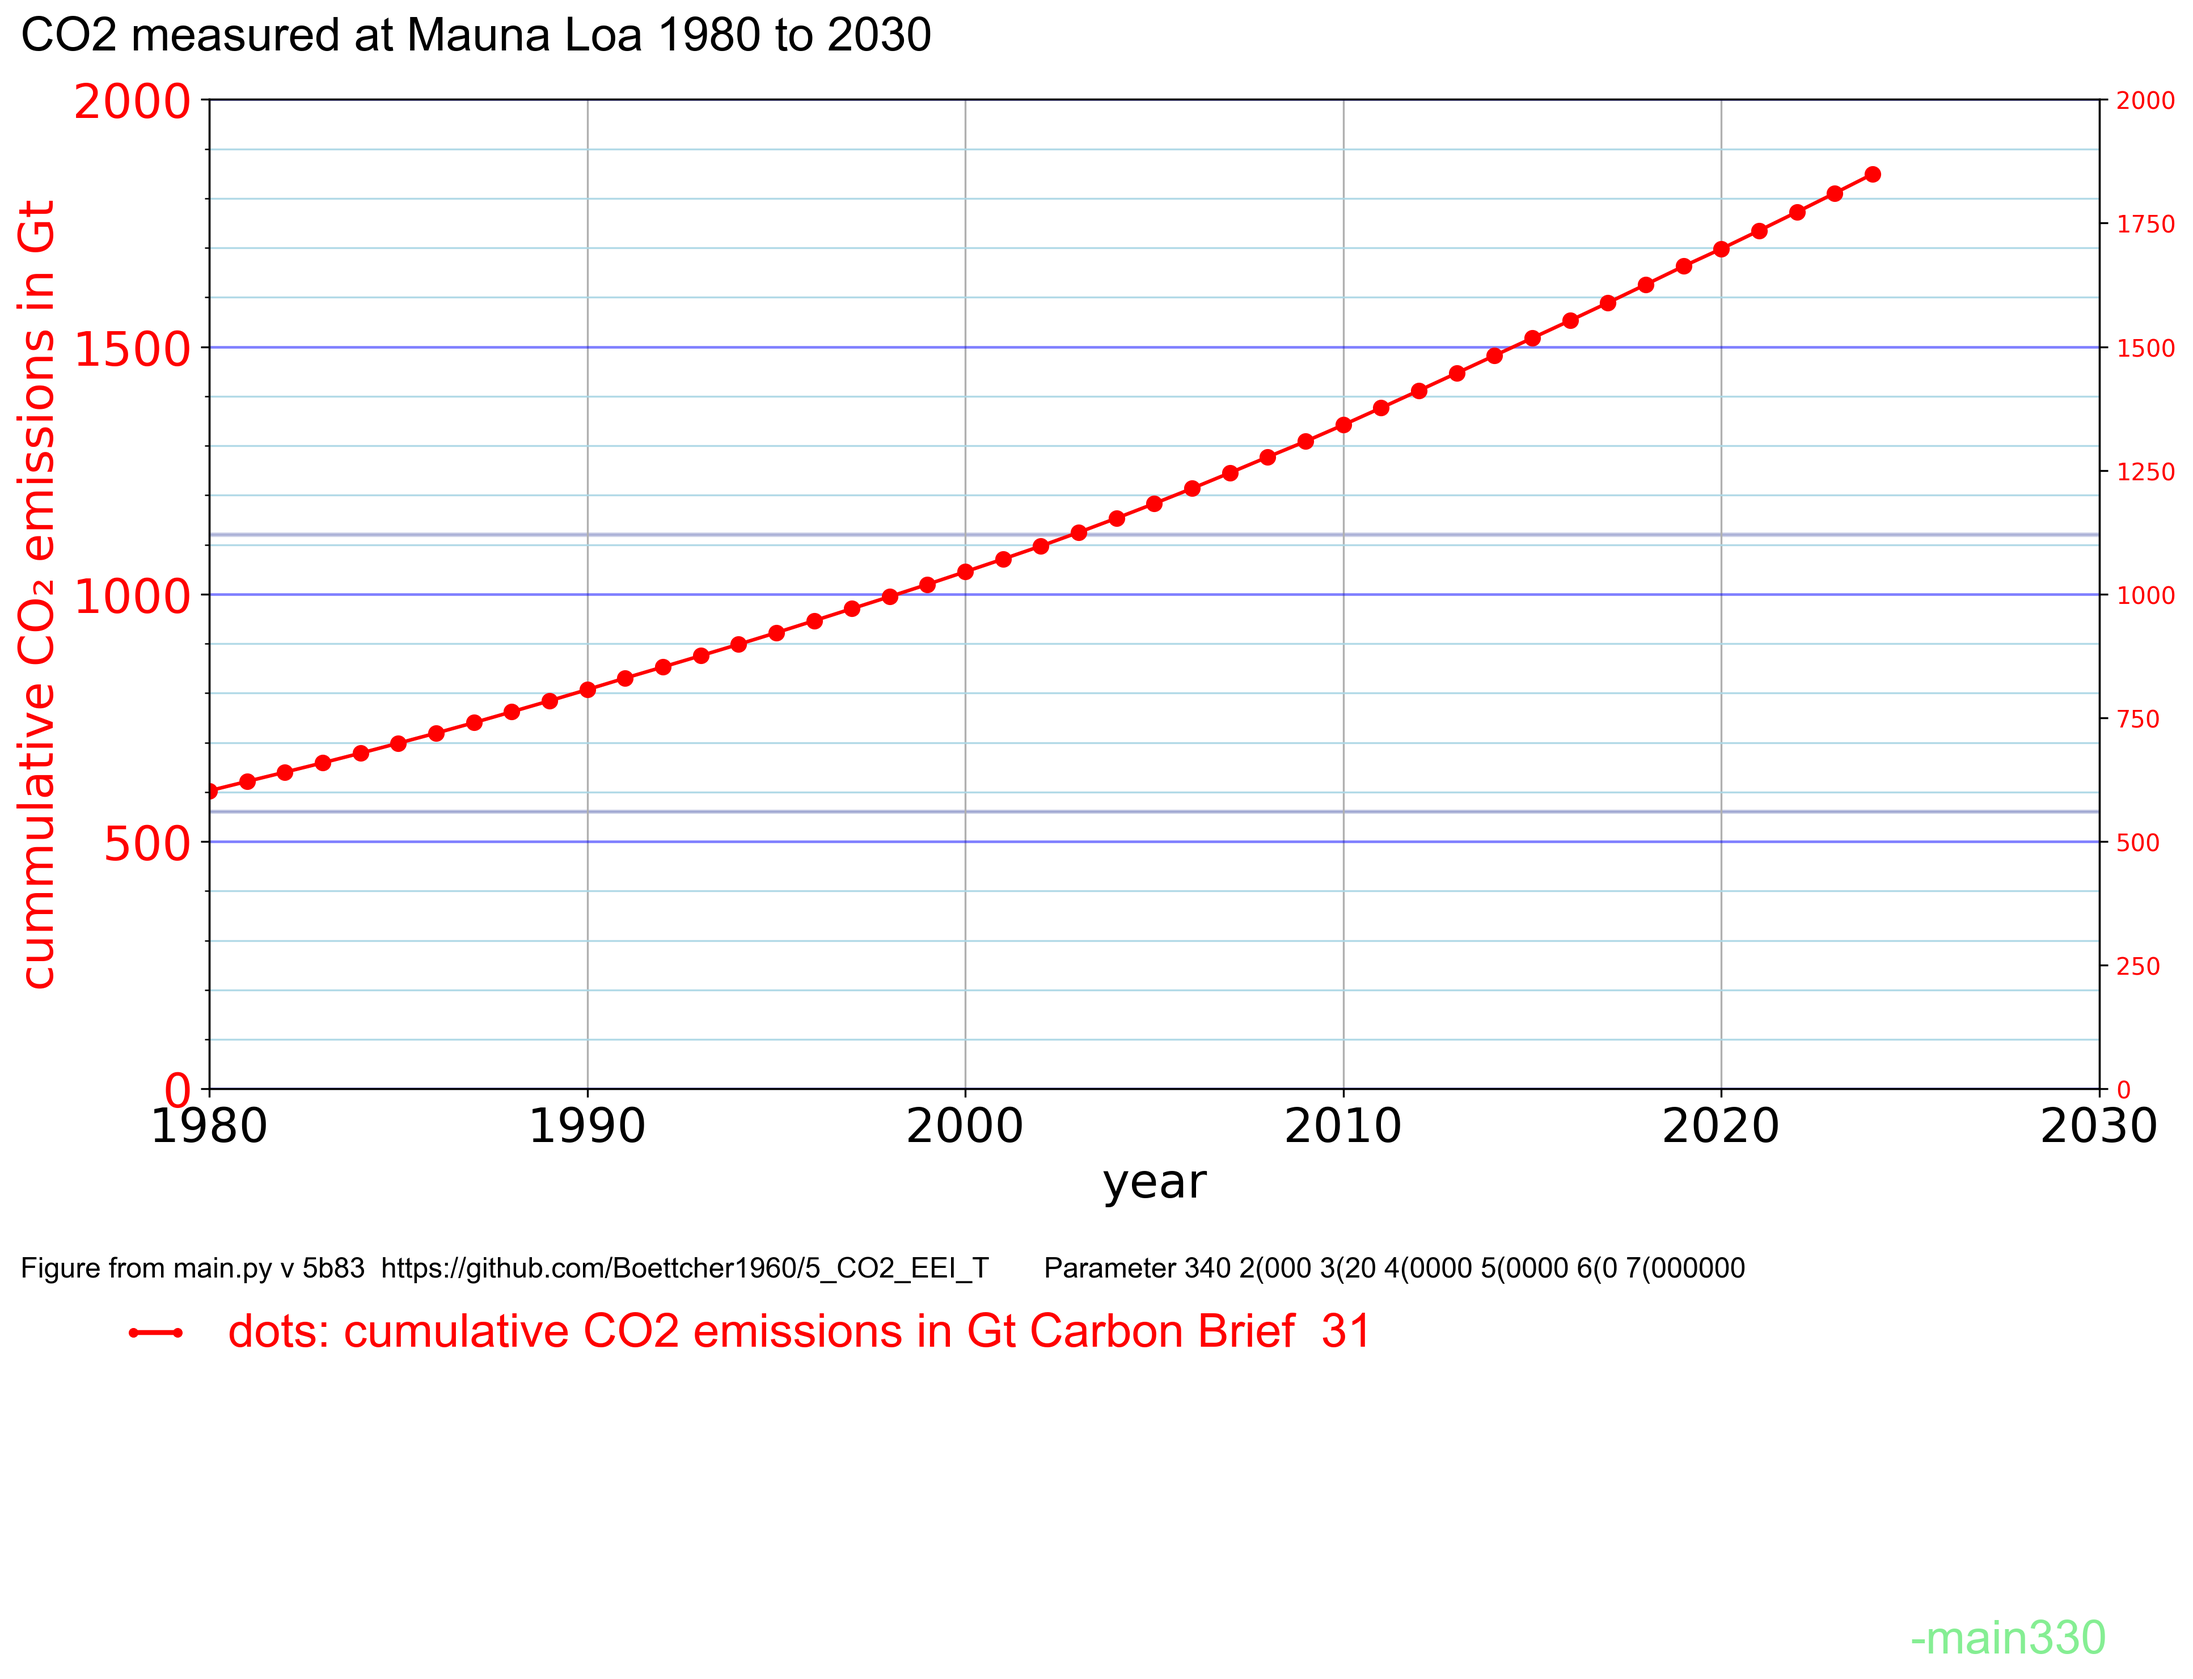
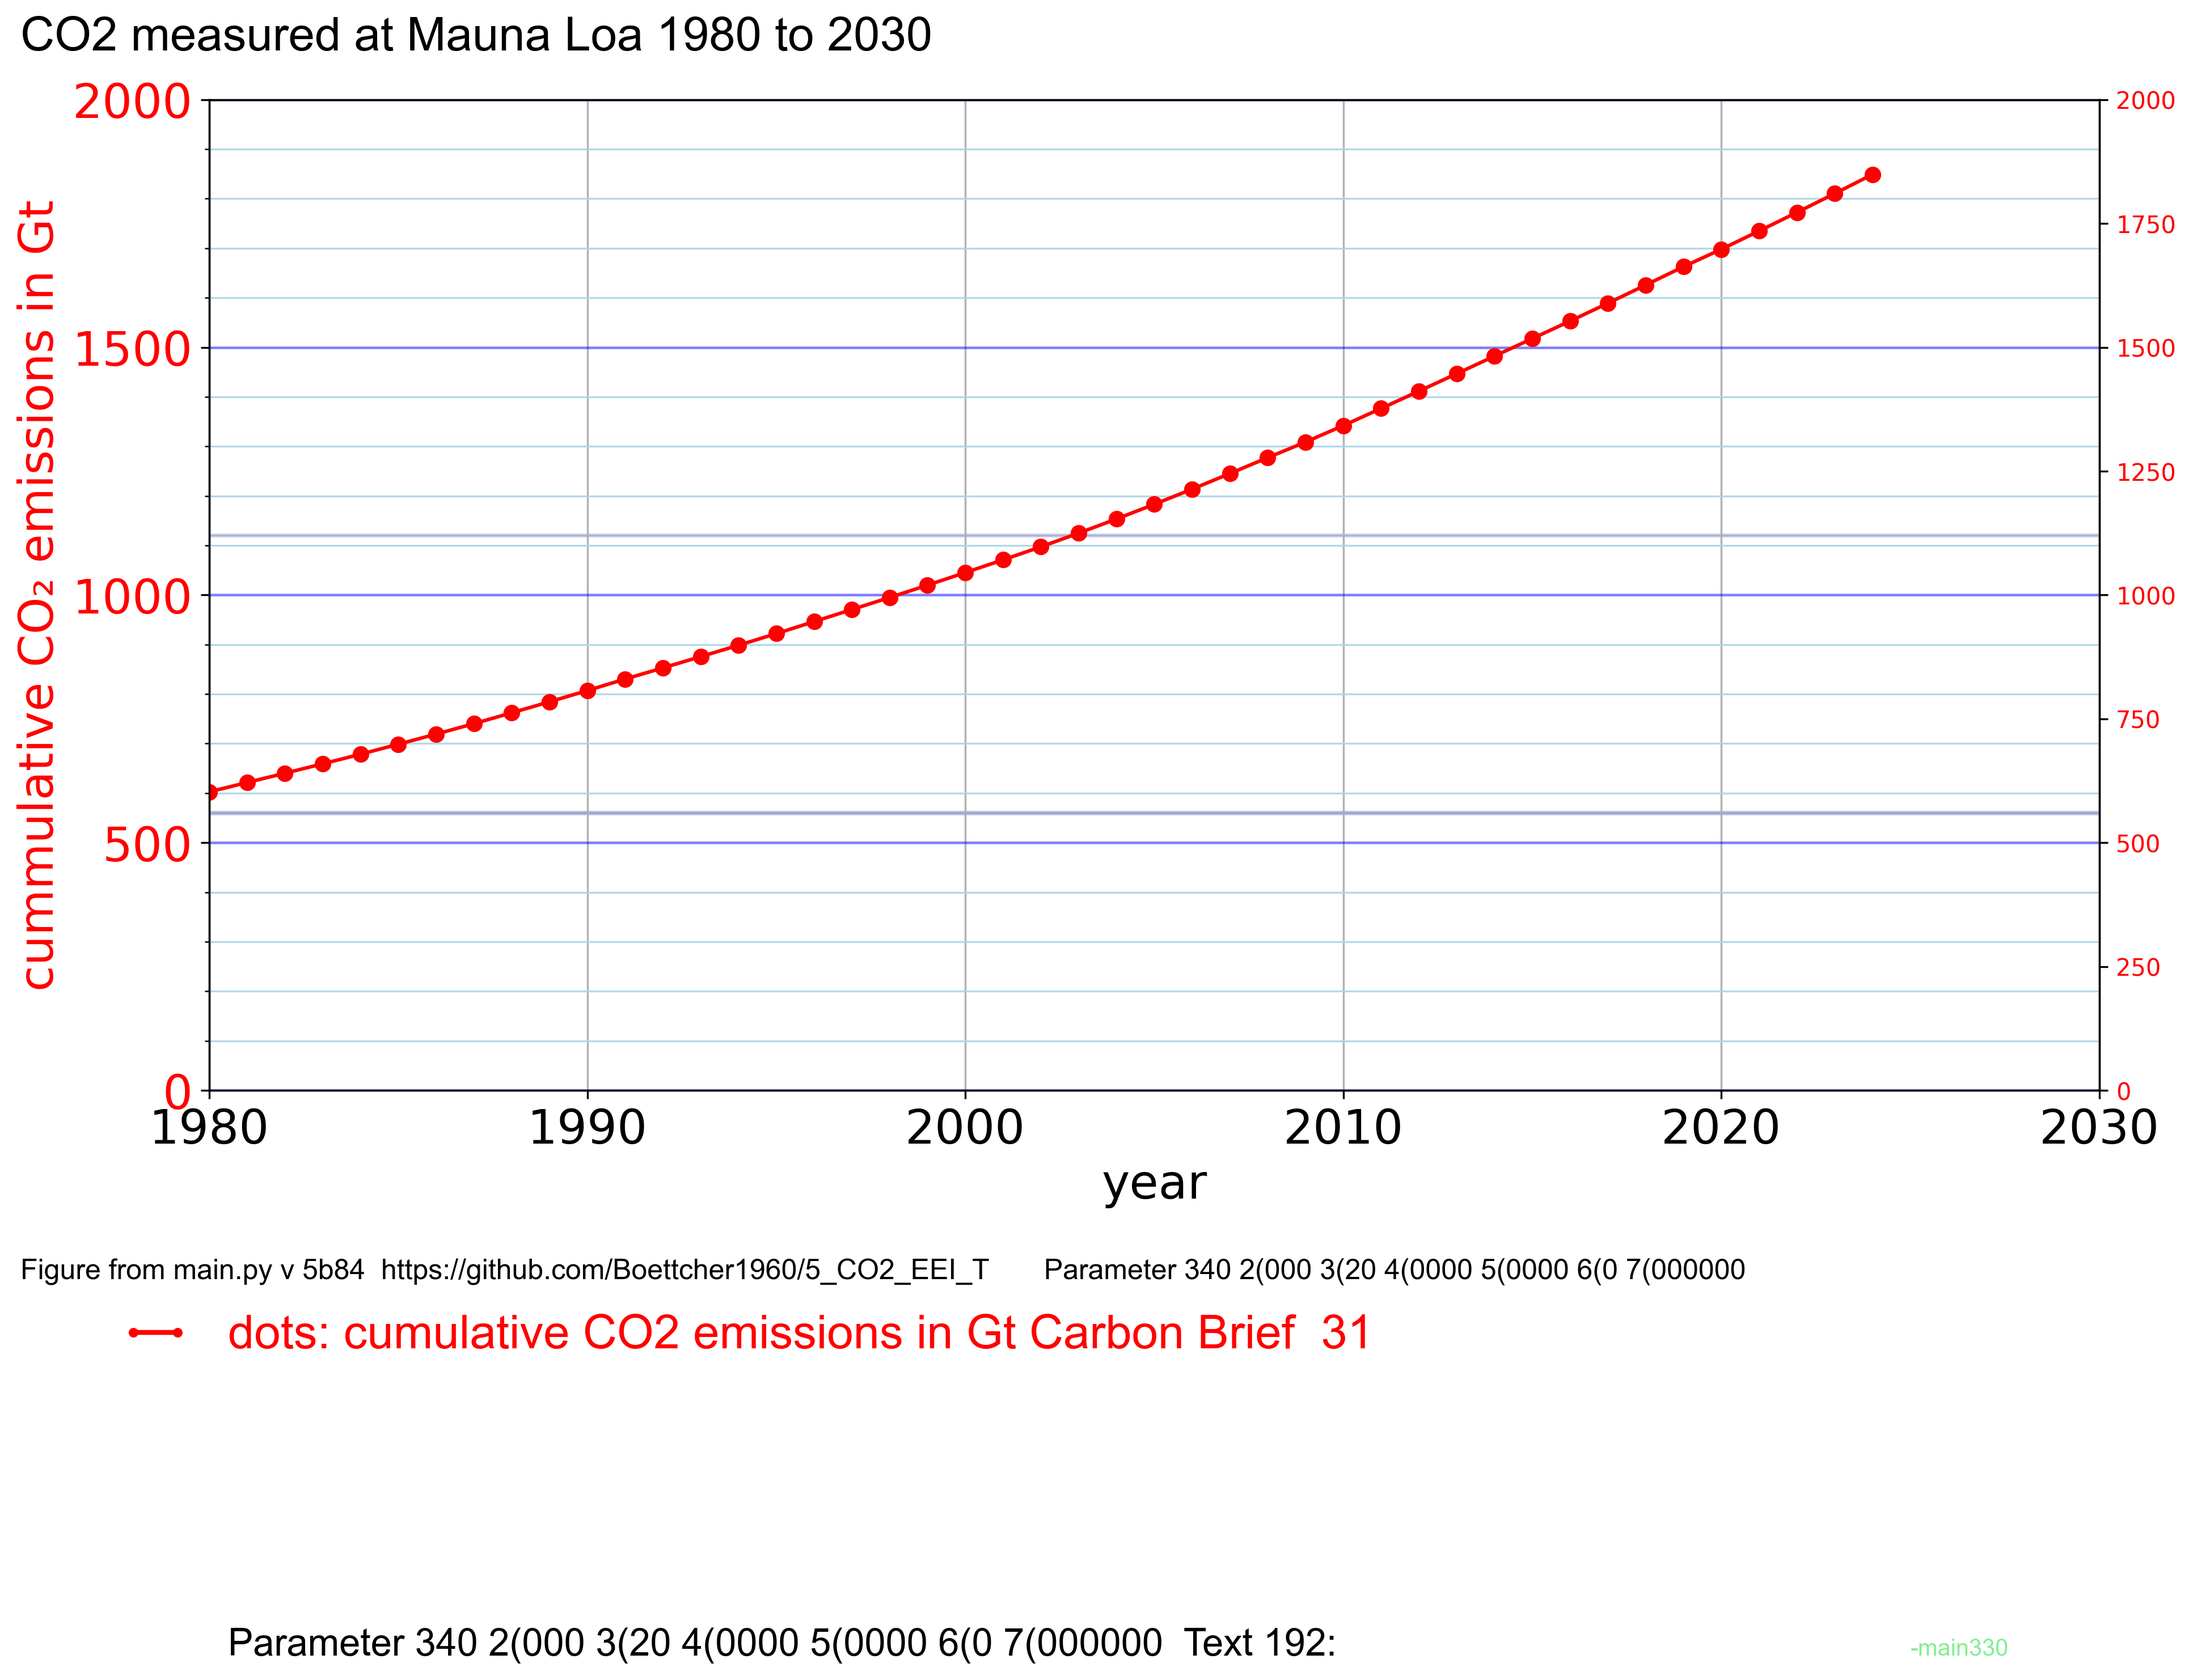
v = "5b85" #  plot31_CO2_emission =    2   # 31.1 CO2_emission Carbon Brief

diff --git a/text.py b/text.py
@@ -1,5 +1,6 @@
 # text_annotations.py
-# version 5b56
+# version 5b85
+
 import os
 import sys
 from matplotlib.lines import Line2D
@@ -50,15 +51,65 @@ def add_text_row(ax, x, y, text, color, fontsize=20):
     ax.text(x, y, text, color=color, fontname="Arial", fontsize=fontsize,
            transform=ax.transAxes)
 
-blue22_text="blue dots: CO2 measured at Mauna Loa ( 2025 = 427.35 ppm ) 22"
+#blue22_text="blue dots: CO2 measured at Mauna Loa ( 2025 = 427.35 ppm ) 22"
 text_plot23_Glen="calculated CO2 dashed blue line = 0.0132251t² - 51.0337t + 49,536 ppm 23"
+
+
+
+
+
+# 9.6 not called print line 6 below the plot explainations
+def add_axis_info_line(ax, yl_mode, y_Emin, y_Emax, y_Tmin, y_Tmax, 
+                       y_min, y_max, header_parameter, tr6y, c42):
+    """Add line 6 with axis information"""
+    trs = 20
+    
+    if yl_mode == 4:  # EEI mode
+        # Left Y-axis info
+        text6_left = f"Left Y axis: EEI = {y_Emin:.1f} ... {y_Emax:.1f} W/m²"
+        ax.text(-0.12, tr5y, text6_left, color=c42, fontname="Arial", fontsize=trs,
+                transform=ax.transAxes)
+        
+        # Right Y-axis info (Temperature)
+        text6_right = f"Right Y axis: Temperature = {y_Tmin:.1f} ... {y_Tmax:.1f} °C"
+        ax.text(0.42, tr5y, text6_right, color="red", fontname="Arial", fontsize=trs,
+                transform=ax.transAxes)
+    
+    elif yl_mode == 2:  # CO2 mode
+        text6_left = f"CO₂: {y_min} ... {y_max} ppm"
+        ax.text(-0.12, tr6y, text6_left, color="blue", fontname="Arial", fontsize=trs,
+                transform=ax.transAxes)
+        
+        text6_right = f"Temperature: {y_Tmin} ... {y_Tmax} °C"
+        ax.text(0.42, tr6y, text6_right, color="red", fontname="Arial", fontsize=trs,
+                transform=ax.transAxes)
+    
+    elif yl_mode == 7:  # Temperature mode
+        text6_left = f"Temperature: {y_Tmin} ... {y_Tmax} °C"
+        ax.text(-0.12, tr6y, text6_left, color="red", fontname="Arial", fontsize=trs,
+                transform=ax.transAxes)
+    else:
+        text6_left = f"Left axis: EEI = {y_Emin:.1f} ... {y_Emax:.1f} W/m²"
+        ax.text(-0.12, tr5y, text6_left, color=c42, fontname="Arial", fontsize=trs,
+                transform=ax.transAxes)
+
+    # Add parameter line (second line at bottom)
+    text_params = f"Parameter code: {header_parameter}"
+    ax.text(-0.12, tr6y - 0.07, text_params, color="black", fontname="Arial", fontsize=12,
+            transform=ax.transAxes)
+    # end 9.6 not called print line 6 below the plot explainations
+
+
+
+
+
 
 # 9.2 print line 2 blue Mauna Loa data below the figure
 # 9.2.2 print line 22 below the plot explainations
 # 9.3 print line 3 below the plot explainations
 # 9.4 print line 4 below the plot explainations
 # 9.5.2 print line 5 plot55_population_on marker="s"
-def add_text_annotations(fig, ax1, header_parameter):
+def text_print_6_lines(fig, ax1, header_parameter):
     """Add all text annotations to the plot"""
     filename = os.path.basename(sys.argv[0])
     
@@ -194,43 +245,3 @@ def add_text_annotations(fig, ax1, header_parameter):
  
 
 
-# 9.6 print line 6 below the plot explainations
-
-def add_axis_info_line(ax, yl_mode, y_Emin, y_Emax, y_Tmin, y_Tmax, 
-                       y_min, y_max, header_parameter, tr6y, c42):
-    """Add line 6 with axis information"""
-    trs = 20
-    
-    if yl_mode == 4:  # EEI mode
-        # Left Y-axis info
-        text6_left = f"Left Y axis: EEI = {y_Emin:.1f} ... {y_Emax:.1f} W/m²"
-        ax.text(-0.12, tr5y, text6_left, color=c42, fontname="Arial", fontsize=trs,
-                transform=ax.transAxes)
-        
-        # Right Y-axis info (Temperature)
-        text6_right = f"Right Y axis: Temperature = {y_Tmin:.1f} ... {y_Tmax:.1f} °C"
-        ax.text(0.42, tr5y, text6_right, color="red", fontname="Arial", fontsize=trs,
-                transform=ax.transAxes)
-    
-    elif yl_mode == 2:  # CO2 mode
-        text6_left = f"CO₂: {y_min} ... {y_max} ppm"
-        ax.text(-0.12, tr6y, text6_left, color="blue", fontname="Arial", fontsize=trs,
-                transform=ax.transAxes)
-        
-        text6_right = f"Temperature: {y_Tmin} ... {y_Tmax} °C"
-        ax.text(0.42, tr6y, text6_right, color="red", fontname="Arial", fontsize=trs,
-                transform=ax.transAxes)
-    
-    elif yl_mode == 7:  # Temperature mode
-        text6_left = f"Temperature: {y_Tmin} ... {y_Tmax} °C"
-        ax.text(-0.12, tr6y, text6_left, color="red", fontname="Arial", fontsize=trs,
-                transform=ax.transAxes)
-    else:
-        text6_left = f"Left axis: EEI = {y_Emin:.1f} ... {y_Emax:.1f} W/m²"
-        ax.text(-0.12, tr5y, text6_left, color=c42, fontname="Arial", fontsize=trs,
-                transform=ax.transAxes)
-
-    # Add parameter line (second line at bottom)
-    text_params = f"Parameter code: {header_parameter}"
-    ax.text(-0.12, tr6y - 0.07, text_params, color="black", fontname="Arial", fontsize=12,
-            transform=ax.transAxes)

diff --git a/main.py b/main.py
@@ -1,6 +1,6 @@
 # main.py
 # part 1 configure 
-v = "5b84" #  plot31_CO2_emission =    2   # 31.1 CO2_emission Carbon Brief
+v = "5b85" #  plot31_CO2_emission =    2   # 31.1 CO2_emission Carbon Brief
 #
 # part 3.4 plot34_CO2_emission summed
 #
@@ -54,7 +54,7 @@ from config import *
 from data_processing import *
 from plotting import *
 from data_processing import *
-from text_annotations import *
+from text import *
 from models import *
 
 from config import y_TOAmin
@@ -376,7 +376,7 @@ def main():
                 break
     
     # Add text annotations
-    add_text_annotations(fig, ax1, header_parameter)
+    text_print_6_lines(fig, ax1, header_parameter)
     
     # Add x-axis label
     ax1.set_xlabel("year", fontsize=20)

diff --git a/plotting.py b/plotting.py
@@ -11,7 +11,7 @@ import matplotlib.pyplot as plt
 from config import *
 from data_processing import *
 from data_processing import *
-from text_annotations import *
+from text import *
 from config import play_62_CERES
 from config import plot34_CO2_emission
 
